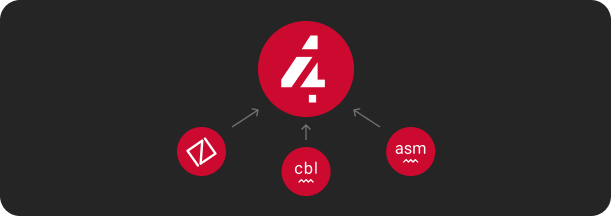
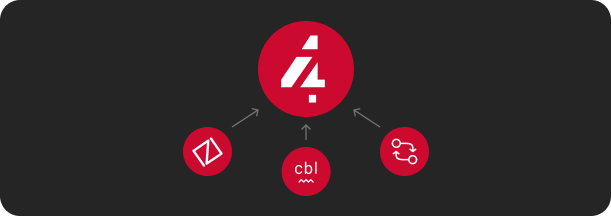
minor readme and picture changes

Changed region(s): [[0.2799, 0.5833, 0.4043, 0.8333], [0.6219, 0.5833, 0.7152, 0.8056], [0.653, 0.8056, 0.6841, 0.8333]]

diff --git a/README.md b/README.md
@@ -1,9 +1,10 @@
 # Code4z
 
-Mainframe basic pack for developers working with z/OS applications
-Powered by open source projects Zowe and Che4z, Code4z offers mainframe application developers a modern, familiar and seamless experience.
+Mainframe starter pack for Developers working with z/OS applications.
 
-> How can we improve Code4z? Let us know on [Git Repository](https://github.com/BroadcomMFD/code4z/issues)
+Powered by open source projects Zowe and Che4z, Code4z offers mainframe application Developers a modern, familiar and seamless experience.
+
+> How can we improve Code4z? Let us know on the [Git Repository](https://github.com/BroadcomMFD/code4z/issues)
 
 ## Features
 
@@ -12,29 +13,51 @@ Powered by open source projects Zowe and Che4z, Code4z offers mainframe applicat
 * Submit JCL
 * View and download job output 
 * Issue TSO commands
-* Retrieve, browse and search CA Endevor® SCM elements
+* Retrieve, browse and search CA Endevor® elements
 * Edit COBOL code with Syntax highlighting, real time syntax validation, content assist and other advanced features 
 * Edit JCL with basic syntax highlighting
-* Optionally, pair and use with  Zowe CLI 
+* Optionally, pair and use with Zowe CLI 
 
-Planned additions include support for other languages like HLASM and support for automated testing.  Many of these extensions, and other mainframe-oriented innovations, will also be available as part of Eclipse Che subproject Che4z.
+Planned additions include support for other languages like HLASM and support for automated testing. Many of these extensions, and other mainframe-oriented innovations, will also be available as part of Eclipse Che subproject Che4z.
 <br /><br />
 <p align="center">
   <img src="extensions.png" alt="Code4z Extensions"/>
 </p>
-
-## Prerequisites
-
-* Access to Mainframe
-* Access to CA Endevor® 
-* Installed and configured CA Endevor® Web Services
-* Java installed on your PC
-* [COBOL extension](https://marketplace.visualstudio.com/items?itemName=bitlang.cobol#review-details) - For syntax highlighting
-* Zowe CLI - [How to install Zowe CLI on your PC](https://docs.zowe.org/stable/user-guide/cli-installcli.html#methods-to-install-zowe-cli)
-* Create at least one [Zowe CLI 'zosmf' profile.](https://docs.zowe.org/stable/user-guide/cli-configuringcli.html#creating-zowe-cli-profiles)
 
 ## Extensions Included
 
 * [Zowe Explorer](https://marketplace.visualstudio.com/items?itemName=Zowe.vscode-extension-for-zowe) - VS Code extension, powered by Zowe CLI, that streamlines interaction with mainframe data sets, USS files, and jobs
 * [COBOL Language Support](https://marketplace.visualstudio.com/items?itemName=broadcomMFD.cobol-language-support) - COBOL Language Support standardizes the communication between language tooling and your code editor using the Language Server Protocol (LSP)
 * [Explorer for Endevor](https://marketplace.visualstudio.com/items?itemName=broadcomMFD.explorer-for-endevor) - Explorer for Endevor gives you the ability to Browse and Retrieve CA Endevor® SCM elements using a user-friendly, intuitive interface
+
+## Prerequisites
+
+* Java installed on your PC
+
+### Zowe Explorer
+* Access to Mainframe
+* Zowe CLI - [How to install Zowe CLI on your PC](https://docs.zowe.org/stable/user-guide/cli-installcli.html#methods-to-install-zowe-cli)
+* Create at least one [Zowe CLI 'zosmf' profile.](https://docs.zowe.org/stable/user-guide/cli-configuringcli.html#creating-zowe-cli-profiles)
+
+### Explorer for Endevor
+* Access to CA Endevor® 
+* Installed and configured CA Endevor® Web Services
+
+### COBOL Language support
+* [COBOL extension](https://marketplace.visualstudio.com/items?itemName=bitlang.cobol#review-details) - For syntax highlighting
+
+## Sample Workflows
+
+### COBOL Language Support and CA Endevor Git Bridge
+* Use VS Code’s built-in git interface to git clone source code from CA Endevor using Endevor’s Git Bridge
+* Edit COBOL code using the COBOL Language Support, taking advantage of all the coding assistance provided by the extension
+* Use VS Code’s built-in git interface to push, pull and merge changes
+
+### Zowe Explorer and Developer Testing
+
+* Unit test code changes by submitting batch jobs. Access JCL in datasets using Zowe Explorer and submit them to the target z/OS system. View the results on the VS Code editor allowing quick and easy batch based unit testing of their code changes.
+
+### COBOL Language Support and Explorer for Endevor
+
+* View code elements in the entire map of Endevor using the Explorer for Endevor Extension. Editing is not allowed, but the COBOL Language Support will provide syntax highlighting for COBOL elements.
+* Download code elements, including their dependencies, using the Explorer for Endevor extension and add it to the git project if code modifications are needed.
